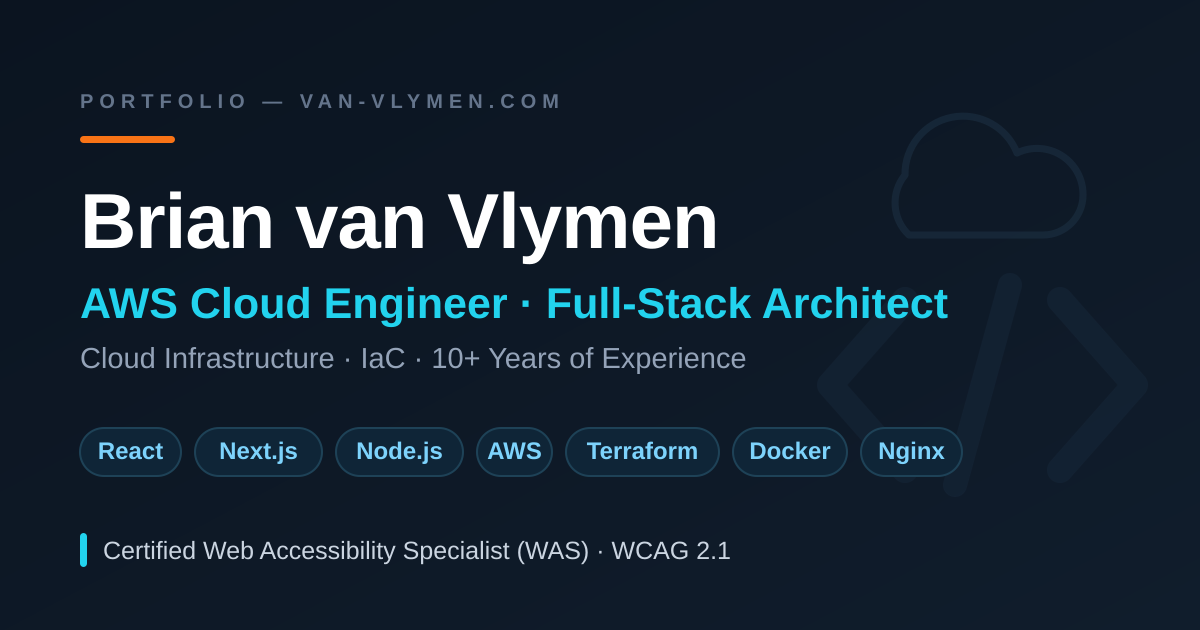
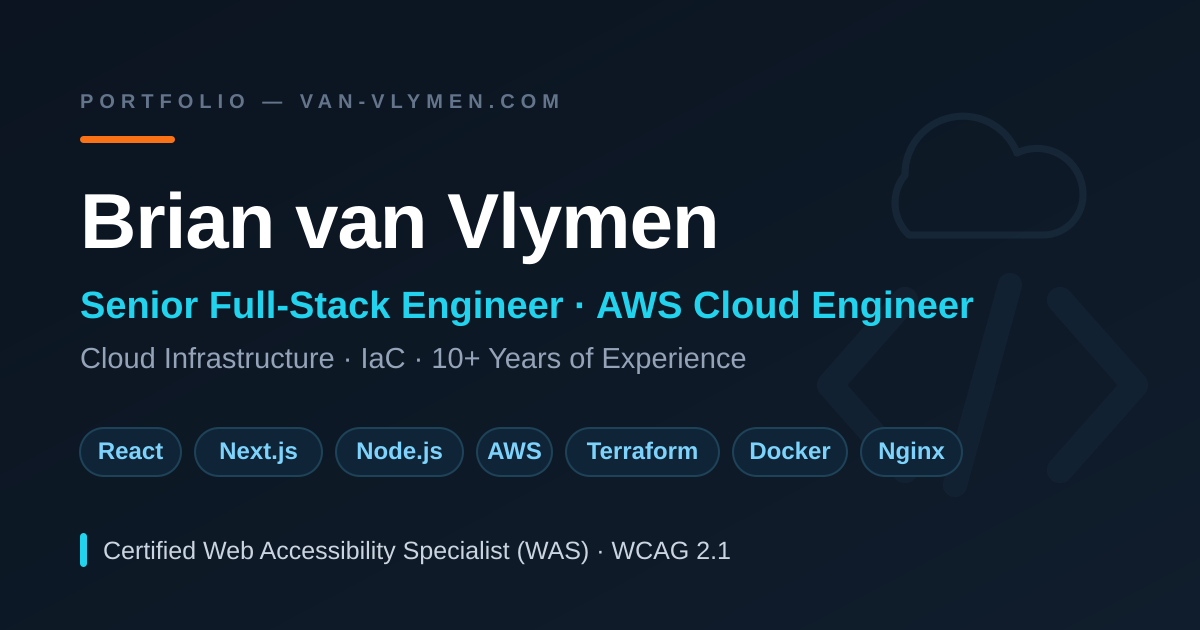
content: standardize title as Senior Full-Stack Engineer + AWS Cloud Engineer
The About headline said 'Senior Full-Stack Engineer and Cloud Architect'
while the page title, JSON-LD, README, and OG banner said 'AWS Cloud Engineer
· Full-Stack Architect'. Standardizes all five on one title.

Drops the self-assigned Architect title in favor of two searchable job
titles; 'architect' stays where it is evidenced on specific projects
(besHandyman, InterPicker). Keeps Cloud Architect, Full Stack Architect, and
Solutions Architect as SEO keywords, and rebuilds the OG banner.

Changed region(s): [[0.0617, 0.4524, 0.8325, 0.5127]]

diff --git a/app/layout.js b/app/layout.js
@@ -7,11 +7,11 @@ import ClientNextThemes from './clientNextThemes'
 export const metadata = {
   metadataBase: new URL('https://van-vlymen.com'),
   title: {
-    default: 'Brian van Vlymen · AWS Cloud Engineer · Full-Stack Architect',
+    default: 'Brian van Vlymen · Senior Full-Stack Engineer · AWS Cloud Engineer',
     template: '%s · Brian van Vlymen',
   },
   description:
-    'Portfolio of Brian van Vlymen, AWS Cloud Engineer and Full-Stack Architect with 10+ years of experience building production systems end-to-end with AWS (ECS, Lambda, S3, SES), Terraform, Next.js, and MongoDB Atlas — certified Web Accessibility Specialist (WAS).',
+    'Portfolio of Brian van Vlymen, Senior Full-Stack Engineer and AWS Cloud Engineer with 10+ years of experience building production systems end-to-end with AWS (ECS, Lambda, S3, SES), Terraform, Next.js, and MongoDB Atlas — certified Web Accessibility Specialist (WAS).',
   keywords: [
     'Brian van Vlymen',
     'van Vlymen',
@@ -19,6 +19,7 @@ export const metadata = {
     'AWS Cloud Engineer',
     'Cloud Architect',
     'Full Stack Architect',
+    'Solutions Architect',
     'Senior Full-Stack Engineer',
     'Cloud Infrastructure',
     'AWS',
@@ -57,7 +58,7 @@ export const metadata = {
     type: 'website',
     url: 'https://van-vlymen.com',
     siteName: 'Brian van Vlymen',
-    title: 'Brian van Vlymen · AWS Cloud Engineer · Full-Stack Architect',
+    title: 'Brian van Vlymen · Senior Full-Stack Engineer · AWS Cloud Engineer',
     description:
       'Production systems end-to-end — AWS, Terraform, Next.js, and Node.js. Certified Web Accessibility Specialist (WAS).',
     images: [
@@ -65,7 +66,7 @@ export const metadata = {
         url: '/images/og-banner.png',
         width: 1200,
         height: 630,
-        alt: 'Brian van Vlymen — AWS Cloud Engineer · Full-Stack Architect',
+        alt: 'Brian van Vlymen — Senior Full-Stack Engineer · AWS Cloud Engineer',
       },
     ],
   },
@@ -73,13 +74,13 @@ export const metadata = {
     card: 'summary_large_image',
     site: '@vanvlymenpaws',
     creator: '@vanvlymenpaws',
-    title: 'Brian van Vlymen · AWS Cloud Engineer · Full-Stack Architect',
+    title: 'Brian van Vlymen · Senior Full-Stack Engineer · AWS Cloud Engineer',
     description:
       'Production systems end-to-end — AWS, Terraform, Next.js, and Node.js. Certified Web Accessibility Specialist (WAS).',
     images: [
       {
         url: '/images/og-banner.png',
-        alt: 'Brian van Vlymen — AWS Cloud Engineer · Full-Stack Architect',
+        alt: 'Brian van Vlymen — Senior Full-Stack Engineer · AWS Cloud Engineer',
       },
     ],
   },
@@ -91,7 +92,7 @@ const jsonLd = {
   name: 'Brian van Vlymen',
   url: 'https://van-vlymen.com',
   image: 'https://van-vlymen.com/images/portfolioImageCard.png',
-  jobTitle: 'AWS Cloud Engineer & Full-Stack Architect',
+  jobTitle: 'Senior Full-Stack Engineer & AWS Cloud Engineer',
   email: 'mailto:bvanvlymen.dev@gmail.com',
   alumniOf: {
     '@type': 'CollegeOrUniversity',

diff --git a/app/components/4About.js b/app/components/4About.js
@@ -32,7 +32,7 @@ const About = () => {
   
         {/* Headline: Education + Mission */}
         <p className="mb-6 text-xl font-medium tracking-tight fadeIn">
-          I am a <span className=" font-bold">Senior Full-Stack Engineer and Cloud Architect</span> with a Computer Science background from <span className="border-b-2 border-orange-500 pb-0.5">UTSA</span> and a deep commitment to digital inclusion.
+          I am a <span className=" font-bold">Senior Full-Stack Engineer · AWS Cloud Engineer</span> with a Computer Science background from <span className="border-b-2 border-orange-500 pb-0.5">UTSA</span> and a deep commitment to digital inclusion.
         </p>
 
         {/* Specialization: Full-Stack + Cloud */}

diff --git a/README.md b/README.md
@@ -2,7 +2,7 @@
 
 **Live site: [van-vlymen.com](https://van-vlymen.com)**
 
-Portfolio of Brian van Vlymen — AWS Cloud Engineer · Full-Stack Architect, and a certified Web Accessibility Specialist (WAS). A minimalist, accessible site built with Next.js (App Router, static export), React, and Tailwind CSS, deployed to GitHub Pages via GitHub Actions.
+Portfolio of Brian van Vlymen — Senior Full-Stack Engineer · AWS Cloud Engineer, and a certified Web Accessibility Specialist (WAS). A minimalist, accessible site built with Next.js (App Router, static export), React, and Tailwind CSS, deployed to GitHub Pages via GitHub Actions.
 
 ## 🛠 Tech Stack
 
